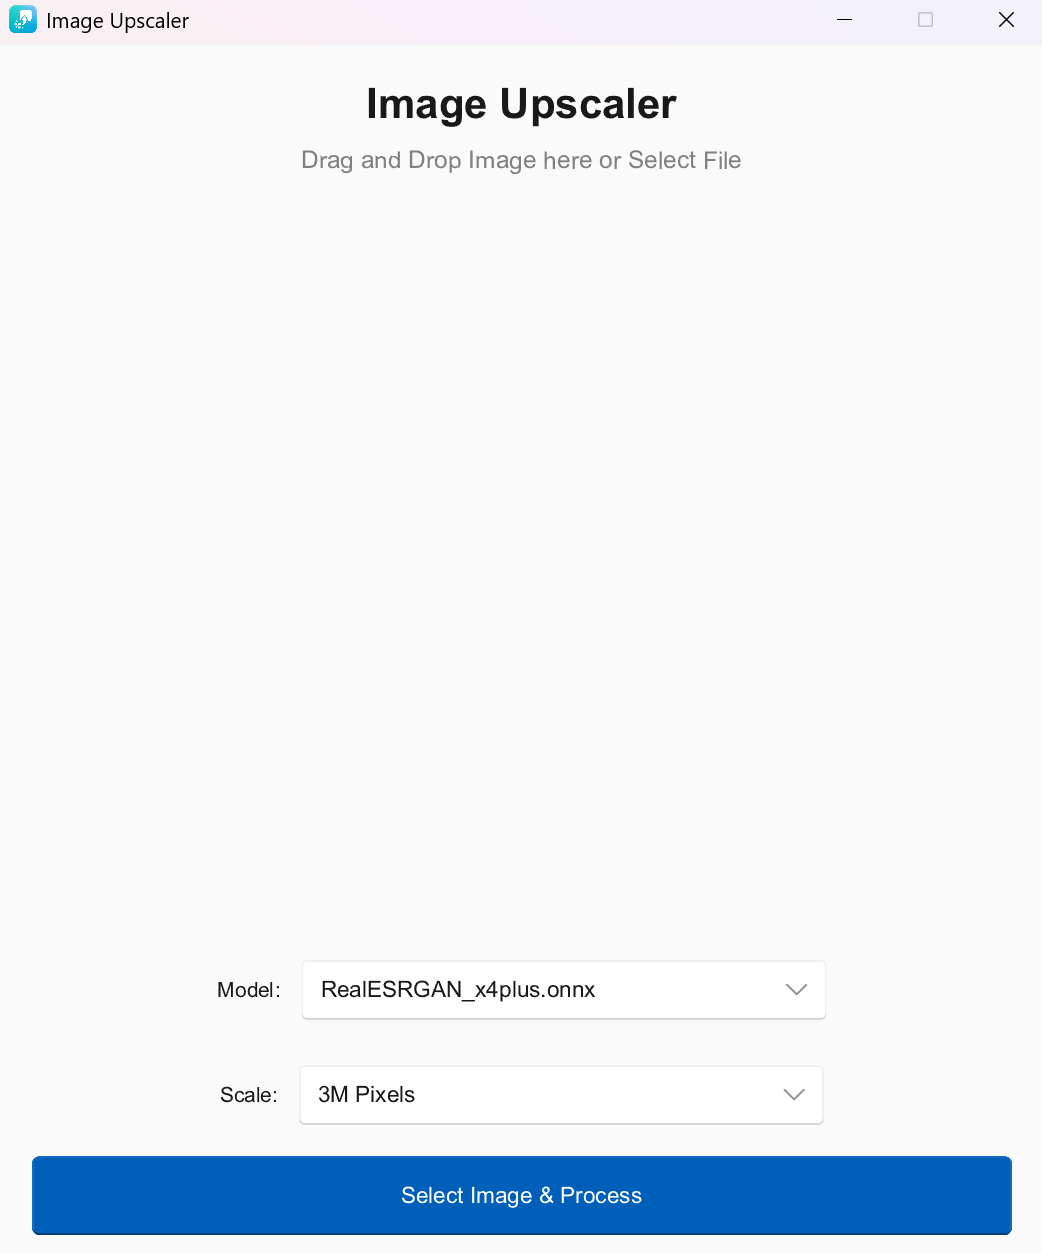
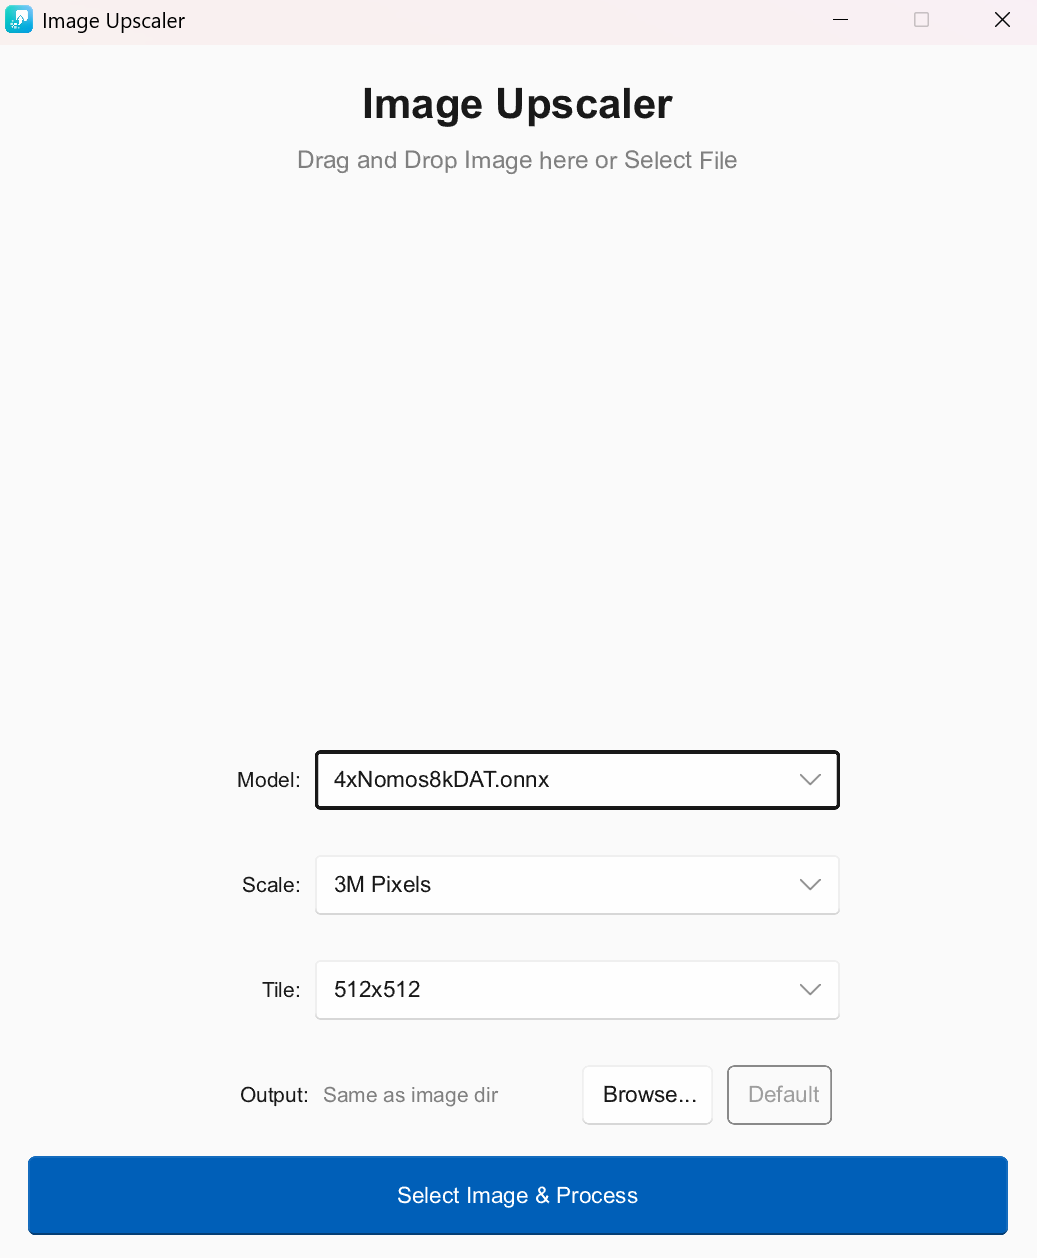
readme

diff --git a/README.md b/README.md
@@ -14,7 +14,7 @@ A high-performance image upscaling application written in **Rust**, powered by *
 - **⚡ High-Performance GPU Acceleration**: Leverages **DirectML** (DirectX 12) for universal GPU support on Windows. No complicated CUDA/cuDNN setup required.
 - **🧩 Intelligent Tiling System**: Automatically splits large images (e.g., Ultra-HD wallpapers) into smaller tiles to prevent GPU Out-of-Memory (OOM) errors. Seamlessly reassembles tiles with zero artifacts.
 - **🚀 Ultra-Fast File Saving**: Custom optimized PNG encoder implementation that significantly reduces CPU time during final image saving, especially for high-resolution 4x outputs.
-- **🖼 Batch Processing & Drag-n-Drop**: Easily drag and drop multiple images directly onto the app window for sequential processing.
+- **🖼 Batch Processing & Drag-n-Drop**: Easily drag and drop multiple images or folders directly onto the app window for sequential processing.
 - **🎨 Modern & Responsive UI**: Built with the **Slint** framework for a sleek, lightweight, and native Windows experience.
 - **📏 Flexible Output Scaling**: Supports multiple output targets (Original x2, x3, x4 or specific pixel counts like 1MP to 6MP).
 
@@ -64,9 +64,9 @@ Real
 1.  Launch the application.
 2.  Select your desired **ONNX Model** from the dropdown.
 3.  Choose the **Output Scale** (e.g., x4).
-4.  **Drag and Drop** your images onto the window or use the file picker.
+4.  **Drag and Drop** your images or folders onto the window or use the file picker.
 5.  Check the progress bar and wait for the "Processing completed!" message.
-6.  **Output**: Upscaled images are saved in the original folder with `_upscaled` appended to the filename and stored in **PNG** format.
+6.  **Output**: Upscaled images are saved in the original folder or the selected output folder with `_upscaled` appended to the filename and stored in **PNG** format.
 
 ### 3. Build from source
 For the best performance, always run in **release** mode:
